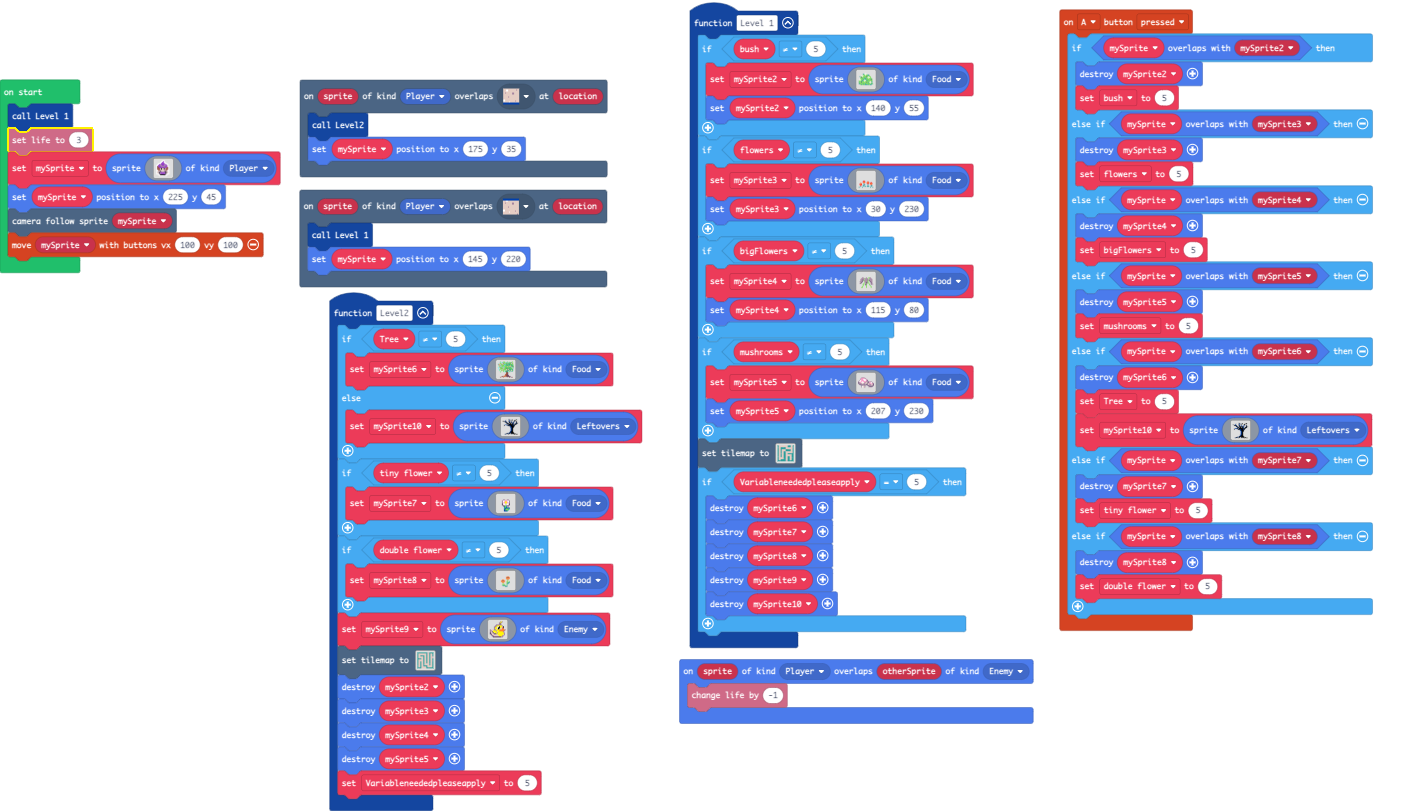
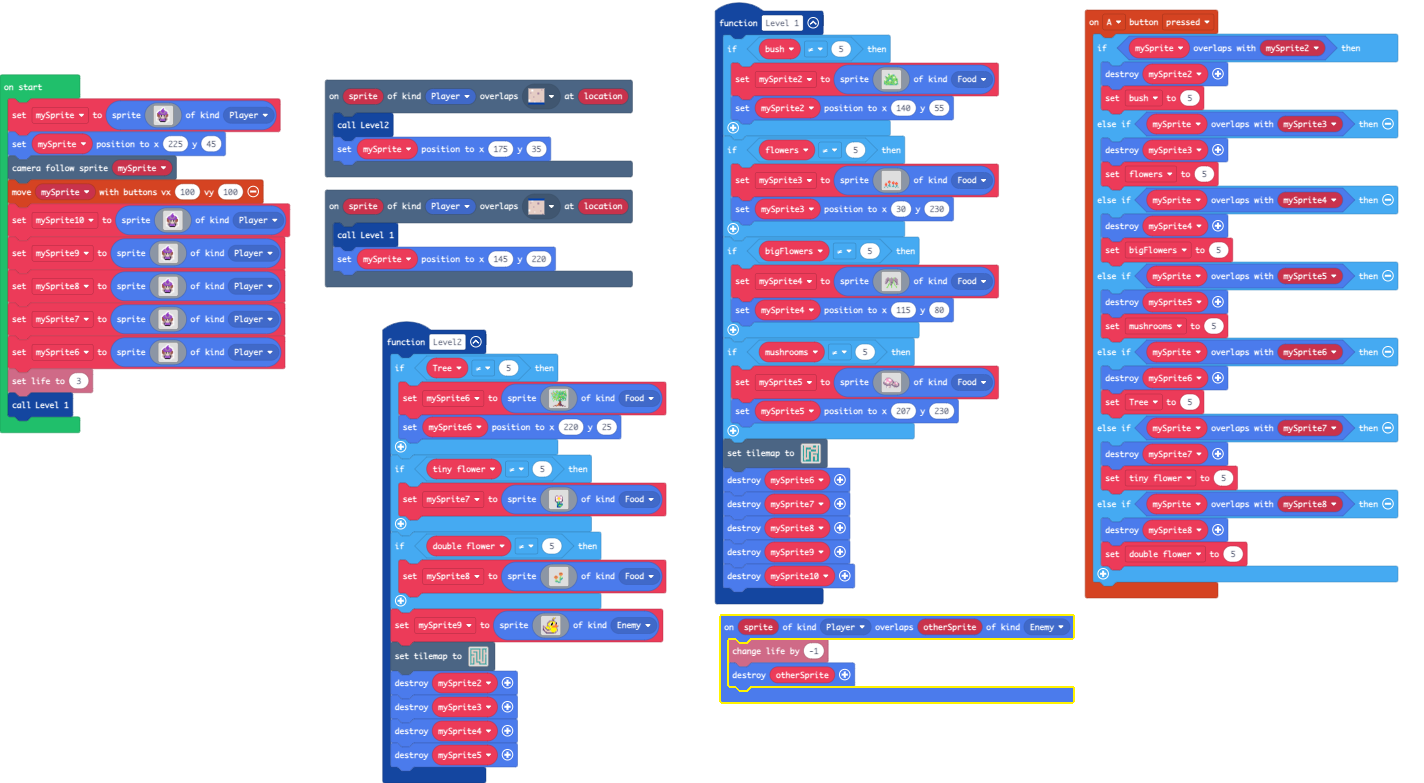
Update pxt.json, main.blocks, main.ts

diff --git a/main.ts b/main.ts
@@ -42,41 +42,7 @@ function Level2 () {
             .......eeee.4ee..ece.cccec......
             ....eee....e......e...eee.ccee..
             `, SpriteKind.Food)
-    } else {
-        mySprite10 = sprites.create(img`
-            ................................
-            ............f...................
-            ............8f..8..f.......ff...
-            ......f......8..f..f....fff.....
-            .....8......f8..f.f....ff.......
-            fff..8f.....f8..f.f...ff..ff....
-            ...f8f8f....f8f..8....88...f....
-            .....ff8f....ff..88..f8....8f...
-            .......f88...fff.f8f.8f....ff...
-            .......fffff..ff..ff.8f...88fff.
-            .........ff8f.fff.ff88f..f8ff...
-            ...........fffffff.f8f..ffff....
-            ....88888f..ffffffffff.f8f......
-            ...f....f8ff88fffff8fffff.......
-            ...f......8fff88fffff88f........
-            ..............f88fffffff........
-            ...............88ffffff.........
-            ...............f88ffff..........
-            ................88ffff..........
-            ................88fff...........
-            ................88fff...........
-            ................88fff...........
-            ................88fff...........
-            ................88fff...........
-            ................88fff...........
-            ...............f8ffff...........
-            ...............88ffff...........
-            ..............888fffff..........
-            .............f8fffffff..........
-            .........f88f88f.fffffff........
-            ......8ff8f.fff..f8f.ff.ff......
-            ....f8f....f......f...fff.ffff..
-            `, SpriteKind.Leftovers)
+        mySprite6.setPosition(220, 25)
     }
     if (tiny_flower != 5) {
         mySprite7 = sprites.create(img`
@@ -145,7 +111,6 @@ function Level2 () {
     mySprite3.destroy()
     mySprite4.destroy()
     mySprite5.destroy()
-    Variableneededpleaseapply = 5
 }
 controller.A.onEvent(ControllerButtonEvent.Pressed, function () {
     if (mySprite.overlapsWith(mySprite2)) {
@@ -163,40 +128,6 @@ controller.A.onEvent(ControllerButtonEvent.Pressed, function () {
     } else if (mySprite.overlapsWith(mySprite6)) {
         mySprite6.destroy()
         Tree = 5
-        mySprite10 = sprites.create(img`
-            ................................
-            ............f...................
-            ............8f..8..f.......ff...
-            ......f......8..f..f....fff.....
-            .....8......f8..f.f....ff.......
-            fff..8f.....f8..f.f...ff..ff....
-            ...f8f8f....f8f..8....88...f....
-            .....ff8f....ff..88..f8....8f...
-            .......f88...fff.f8f.8f....ff...
-            .......fffff..ff..ff.8f...88fff.
-            .........ff8f.fff.ff88f..f8ff...
-            ...........fffffff.f8f..ffff....
-            ....88888f..ffffffffff.f8f......
-            ...f....f8ff88fffff8fffff.......
-            ...f......8fff88fffff88f........
-            ..............f88fffffff........
-            ...............88ffffff.........
-            ...............f88ffff..........
-            ................88ffff..........
-            ................88fff...........
-            ................88fff...........
-            ................88fff...........
-            ................88fff...........
-            ................88fff...........
-            ................88fff...........
-            ...............f8ffff...........
-            ...............88ffff...........
-            ..............888fffff..........
-            .............f8fffffff..........
-            .........f88f88f.fffffff........
-            ......8ff8f.fff..f8f.ff.ff......
-            ....f8f....f......f...fff.ffff..
-            `, SpriteKind.Leftovers)
     } else if (mySprite.overlapsWith(mySprite7)) {
         mySprite7.destroy()
         tiny_flower = 5
@@ -307,37 +238,33 @@ function Level_1 () {
         mySprite5.setPosition(207, 230)
     }
     tiles.setTilemap(tilemap`level2`)
-    if (Variableneededpleaseapply == 5) {
-        mySprite6.destroy()
-        mySprite7.destroy()
-        mySprite8.destroy()
-        mySprite9.destroy()
-        mySprite10.destroy()
-    }
+    mySprite6.destroy()
+    mySprite7.destroy()
+    mySprite8.destroy()
+    mySprite9.destroy()
+    mySprite10.destroy()
 }
 sprites.onOverlap(SpriteKind.Player, SpriteKind.Enemy, function (sprite, otherSprite) {
     info.changeLifeBy(-1)
+    otherSprite.destroy()
 })
 let mushrooms = 0
 let bigFlowers = 0
 let flowers = 0
 let bush = 0
-let Variableneededpleaseapply = 0
 let mySprite5: Sprite = null
 let mySprite4: Sprite = null
 let mySprite3: Sprite = null
 let mySprite2: Sprite = null
-let mySprite9: Sprite = null
-let mySprite8: Sprite = null
 let double_flower = 0
-let mySprite7: Sprite = null
 let tiny_flower = 0
-let mySprite10: Sprite = null
-let mySprite6: Sprite = null
 let Tree = 0
+let mySprite6: Sprite = null
+let mySprite7: Sprite = null
+let mySprite8: Sprite = null
+let mySprite9: Sprite = null
+let mySprite10: Sprite = null
 let mySprite: Sprite = null
-Level_1()
-info.setLife(3)
 mySprite = sprites.create(img`
     . . . . . . . 1 1 1 . . . . . . 
     . . . . . . 1 1 a 1 . . . . . . 
@@ -360,3 +287,100 @@ mySprite = sprites.create(img`
 mySprite.setPosition(225, 45)
 scene.cameraFollowSprite(mySprite)
 controller.moveSprite(mySprite, 100, 100)
+mySprite10 = sprites.create(img`
+    . . . . . . . 1 1 1 . . . . . . 
+    . . . . . . 1 1 a 1 . . . . . . 
+    . . . . . 1 1 a a 1 1 . . . . . 
+    . . . 1 1 1 a a a a 1 1 1 . . . 
+    . . 1 1 a b a a a a b a 1 1 . . 
+    . 1 1 a a b b a a b b a a 1 . . 
+    . 1 e a a a b b b b a a a 1 1 . 
+    . 1 e e a a a a a a a a e e 1 . 
+    . 1 e e e d f d d f d e e e 1 . 
+    . 1 e e e d f d d f d e e e 1 . 
+    . 1 1 e e d d d d d d e e 1 1 . 
+    . 1 1 d d f d d d d f d d 1 1 . 
+    . 1 d b c b a b b a b f b d 1 . 
+    . 1 d d f a a a a a a f d d 1 . 
+    . 1 1 1 c b a a a a b c 1 1 1 . 
+    . . . 1 1 f f f f f f 1 1 . . . 
+    . . . . 1 1 1 1 1 1 1 1 . . . . 
+    `, SpriteKind.Player)
+mySprite9 = sprites.create(img`
+    . . . . . . . 1 1 1 . . . . . . 
+    . . . . . . 1 1 a 1 . . . . . . 
+    . . . . . 1 1 a a 1 1 . . . . . 
+    . . . 1 1 1 a a a a 1 1 1 . . . 
+    . . 1 1 a b a a a a b a 1 1 . . 
+    . 1 1 a a b b a a b b a a 1 . . 
+    . 1 e a a a b b b b a a a 1 1 . 
+    . 1 e e a a a a a a a a e e 1 . 
+    . 1 e e e d f d d f d e e e 1 . 
+    . 1 e e e d f d d f d e e e 1 . 
+    . 1 1 e e d d d d d d e e 1 1 . 
+    . 1 1 d d f d d d d f d d 1 1 . 
+    . 1 d b c b a b b a b f b d 1 . 
+    . 1 d d f a a a a a a f d d 1 . 
+    . 1 1 1 c b a a a a b c 1 1 1 . 
+    . . . 1 1 f f f f f f 1 1 . . . 
+    . . . . 1 1 1 1 1 1 1 1 . . . . 
+    `, SpriteKind.Player)
+mySprite8 = sprites.create(img`
+    . . . . . . . 1 1 1 . . . . . . 
+    . . . . . . 1 1 a 1 . . . . . . 
+    . . . . . 1 1 a a 1 1 . . . . . 
+    . . . 1 1 1 a a a a 1 1 1 . . . 
+    . . 1 1 a b a a a a b a 1 1 . . 
+    . 1 1 a a b b a a b b a a 1 . . 
+    . 1 e a a a b b b b a a a 1 1 . 
+    . 1 e e a a a a a a a a e e 1 . 
+    . 1 e e e d f d d f d e e e 1 . 
+    . 1 e e e d f d d f d e e e 1 . 
+    . 1 1 e e d d d d d d e e 1 1 . 
+    . 1 1 d d f d d d d f d d 1 1 . 
+    . 1 d b c b a b b a b f b d 1 . 
+    . 1 d d f a a a a a a f d d 1 . 
+    . 1 1 1 c b a a a a b c 1 1 1 . 
+    . . . 1 1 f f f f f f 1 1 . . . 
+    . . . . 1 1 1 1 1 1 1 1 . . . . 
+    `, SpriteKind.Player)
+mySprite7 = sprites.create(img`
+    . . . . . . . 1 1 1 . . . . . . 
+    . . . . . . 1 1 a 1 . . . . . . 
+    . . . . . 1 1 a a 1 1 . . . . . 
+    . . . 1 1 1 a a a a 1 1 1 . . . 
+    . . 1 1 a b a a a a b a 1 1 . . 
+    . 1 1 a a b b a a b b a a 1 . . 
+    . 1 e a a a b b b b a a a 1 1 . 
+    . 1 e e a a a a a a a a e e 1 . 
+    . 1 e e e d f d d f d e e e 1 . 
+    . 1 e e e d f d d f d e e e 1 . 
+    . 1 1 e e d d d d d d e e 1 1 . 
+    . 1 1 d d f d d d d f d d 1 1 . 
+    . 1 d b c b a b b a b f b d 1 . 
+    . 1 d d f a a a a a a f d d 1 . 
+    . 1 1 1 c b a a a a b c 1 1 1 . 
+    . . . 1 1 f f f f f f 1 1 . . . 
+    . . . . 1 1 1 1 1 1 1 1 . . . . 
+    `, SpriteKind.Player)
+mySprite6 = sprites.create(img`
+    . . . . . . . 1 1 1 . . . . . . 
+    . . . . . . 1 1 a 1 . . . . . . 
+    . . . . . 1 1 a a 1 1 . . . . . 
+    . . . 1 1 1 a a a a 1 1 1 . . . 
+    . . 1 1 a b a a a a b a 1 1 . . 
+    . 1 1 a a b b a a b b a a 1 . . 
+    . 1 e a a a b b b b a a a 1 1 . 
+    . 1 e e a a a a a a a a e e 1 . 
+    . 1 e e e d f d d f d e e e 1 . 
+    . 1 e e e d f d d f d e e e 1 . 
+    . 1 1 e e d d d d d d e e 1 1 . 
+    . 1 1 d d f d d d d f d d 1 1 . 
+    . 1 d b c b a b b a b f b d 1 . 
+    . 1 d d f a a a a a a f d d 1 . 
+    . 1 1 1 c b a a a a b c 1 1 1 . 
+    . . . 1 1 f f f f f f 1 1 . . . 
+    . . . . 1 1 1 1 1 1 1 1 . . . . 
+    `, SpriteKind.Player)
+info.setLife(3)
+Level_1()
